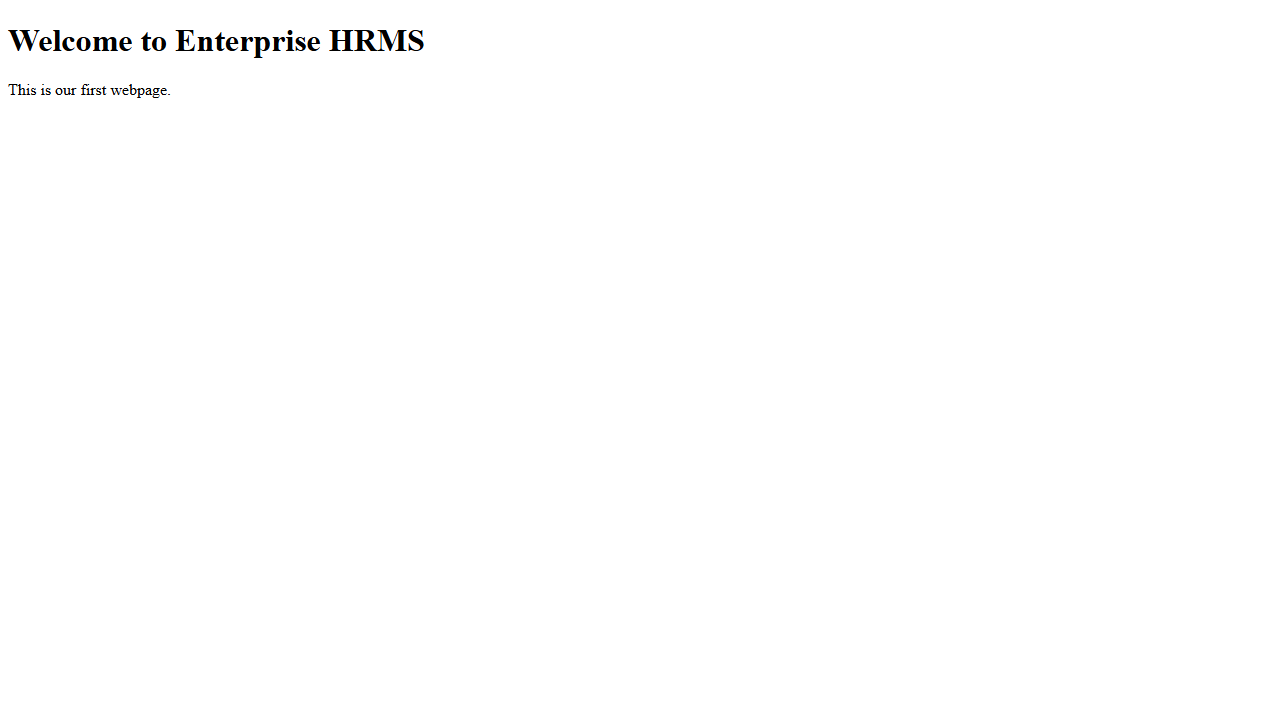
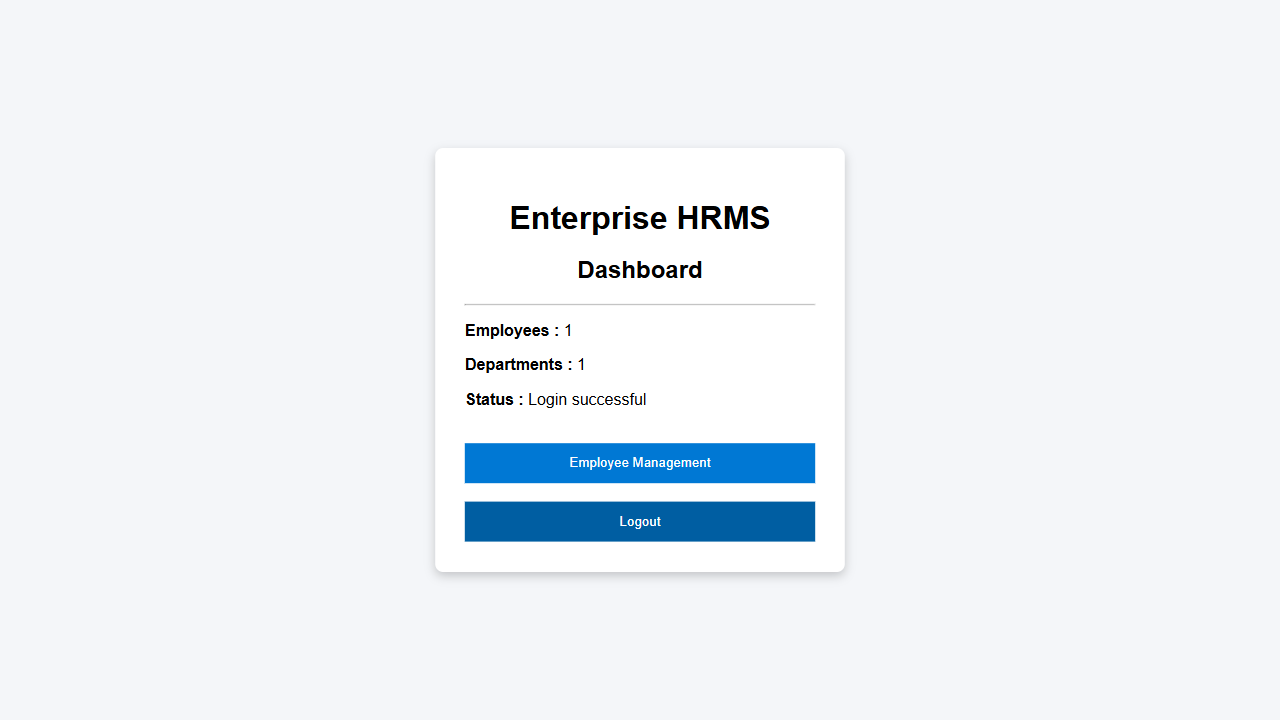
Added Assertions and verified all test cases

diff --git a/automation_framework/reports/report.html b/automation_framework/reports/report.html
@@ -328,7 +328,7 @@ div.media {
   </head>
   <body>
     <h1 id="title">report.html</h1>
-    <p>Report generated on 26-Jul-2026 at 22:02:19 by <a href="https://pypi.python.org/pypi/pytest-html">pytest-html</a>
+    <p>Report generated on 27-Jul-2026 at 10:40:19 by <a href="https://pypi.python.org/pypi/pytest-html">pytest-html</a>
         v4.2.0</p>
     <div id="environment-header">
       <h2>Environment</h2>
@@ -383,7 +383,7 @@ div.media {
         <h2>Summary</h2>
         <div class="additional-summary prefix">
         </div>
-        <p class="run-count">4 tests took 00:00:11.</p>
+        <p class="run-count">7 tests took 00:00:41.</p>
         <p class="filter">(Un)check the boxes to filter the results.</p>
         <div class="summary__reload">
           <div class="summary__reload__button hidden" onclick="location.reload()">
@@ -396,7 +396,7 @@ div.media {
             <input checked="true" class="filter" name="filter_checkbox" type="checkbox" data-test-result="failed" disabled>
             <span class="failed">0 Failed,</span>
             <input checked="true" class="filter" name="filter_checkbox" type="checkbox" data-test-result="passed" >
-            <span class="passed">4 Passed,</span>
+            <span class="passed">7 Passed,</span>
             <input checked="true" class="filter" name="filter_checkbox" type="checkbox" data-test-result="skipped" disabled>
             <span class="skipped">0 Skipped,</span>
             <input checked="true" class="filter" name="filter_checkbox" type="checkbox" data-test-result="xfailed" disabled>
@@ -431,7 +431,7 @@ div.media {
       </thead>
     </table>
   <footer>
-    <div id="data-container" data-jsonblob="{&#34;environment&#34;: {&#34;Python&#34;: &#34;3.13.14&#34;, &#34;Platform&#34;: &#34;Windows-11-10.0.26200-SP0&#34;, &#34;Packages&#34;: {&#34;pytest&#34;: &#34;9.1.1&#34;, &#34;pluggy&#34;: &#34;1.6.0&#34;}, &#34;Plugins&#34;: {&#34;html&#34;: &#34;4.2.0&#34;, &#34;metadata&#34;: &#34;3.1.1&#34;}}, &#34;tests&#34;: {&#34;tests/test_login.py::test_login[admin-admin123]&#34;: [{&#34;extras&#34;: [], &#34;result&#34;: &#34;Passed&#34;, &#34;testId&#34;: &#34;tests/test_login.py::test_login[admin-admin123]&#34;, &#34;duration&#34;: &#34;00:00:03&#34;, &#34;resultsTableRow&#34;: [&#34;&lt;td class=\&#34;col-result\&#34;&gt;Passed&lt;/td&gt;&#34;, &#34;&lt;td class=\&#34;col-testId\&#34;&gt;tests/test_login.py::test_login[admin-admin123]&lt;/td&gt;&#34;, &#34;&lt;td class=\&#34;col-duration\&#34;&gt;00:00:03&lt;/td&gt;&#34;, &#34;&lt;td class=\&#34;col-links\&#34;&gt;&lt;/td&gt;&#34;], &#34;log&#34;: &#34;----------------------------- Captured stderr call -----------------------------\n2026-07-26 22:02:11,035 | INFO | Opened HRMS application\n2026-07-26 22:02:11,086 | INFO | Entered Username\n2026-07-26 22:02:11,102 | INFO | Entered Password\n2026-07-26 22:02:11,358 | INFO | Clicked Login Button\n2026-07-26 22:02:11,358 | INFO | Login successful\n\n------------------------------ Captured log call -------------------------------\nINFO     HRMS:login_page.py:21 Opened HRMS application\nINFO     HRMS:login_page.py:27 Entered Username\nINFO     HRMS:login_page.py:32 Entered Password\nINFO     HRMS:login_page.py:38 Clicked Login Button\nINFO     HRMS:login_page.py:46 Login successful\n\n&#34;}], &#34;tests/test_login.py::test_login[admin-wrongpassword]&#34;: [{&#34;extras&#34;: [], &#34;result&#34;: &#34;Passed&#34;, &#34;testId&#34;: &#34;tests/test_login.py::test_login[admin-wrongpassword]&#34;, &#34;duration&#34;: &#34;00:00:03&#34;, &#34;resultsTableRow&#34;: [&#34;&lt;td class=\&#34;col-result\&#34;&gt;Passed&lt;/td&gt;&#34;, &#34;&lt;td class=\&#34;col-testId\&#34;&gt;tests/test_login.py::test_login[admin-wrongpassword]&lt;/td&gt;&#34;, &#34;&lt;td class=\&#34;col-duration\&#34;&gt;00:00:03&lt;/td&gt;&#34;, &#34;&lt;td class=\&#34;col-links\&#34;&gt;&lt;/td&gt;&#34;], &#34;log&#34;: &#34;----------------------------- Captured stderr call -----------------------------\n2026-07-26 22:02:13,579 | INFO | Opened HRMS application\n2026-07-26 22:02:13,637 | INFO | Entered Username\n2026-07-26 22:02:13,655 | INFO | Entered Password\n2026-07-26 22:02:13,766 | INFO | Clicked Login Button\n2026-07-26 22:02:13,767 | INFO | Login successful\n\n------------------------------ Captured log call -------------------------------\nINFO     HRMS:login_page.py:21 Opened HRMS application\nINFO     HRMS:login_page.py:27 Entered Username\nINFO     HRMS:login_page.py:32 Entered Password\nINFO     HRMS:login_page.py:38 Clicked Login Button\nINFO     HRMS:login_page.py:46 Login successful\n\n&#34;}], &#34;tests/test_login.py::test_login[wronguser-admin123]&#34;: [{&#34;extras&#34;: [], &#34;result&#34;: &#34;Passed&#34;, &#34;testId&#34;: &#34;tests/test_login.py::test_login[wronguser-admin123]&#34;, &#34;duration&#34;: &#34;00:00:03&#34;, &#34;resultsTableRow&#34;: [&#34;&lt;td class=\&#34;col-result\&#34;&gt;Passed&lt;/td&gt;&#34;, &#34;&lt;td class=\&#34;col-testId\&#34;&gt;tests/test_login.py::test_login[wronguser-admin123]&lt;/td&gt;&#34;, &#34;&lt;td class=\&#34;col-duration\&#34;&gt;00:00:03&lt;/td&gt;&#34;, &#34;&lt;td class=\&#34;col-links\&#34;&gt;&lt;/td&gt;&#34;], &#34;log&#34;: &#34;----------------------------- Captured stderr call -----------------------------\n2026-07-26 22:02:16,093 | INFO | Opened HRMS application\n2026-07-26 22:02:16,142 | INFO | Entered Username\n2026-07-26 22:02:16,161 | INFO | Entered Password\n2026-07-26 22:02:16,471 | INFO | Clicked Login Button\n2026-07-26 22:02:16,472 | INFO | Login successful\n\n------------------------------ Captured log call -------------------------------\nINFO     HRMS:login_page.py:21 Opened HRMS application\nINFO     HRMS:login_page.py:27 Entered Username\nINFO     HRMS:login_page.py:32 Entered Password\nINFO     HRMS:login_page.py:38 Clicked Login Button\nINFO     HRMS:login_page.py:46 Login successful\n\n&#34;}], &#34;tests/test_login.py::test_login[wronguser-wrongpassword]&#34;: [{&#34;extras&#34;: [], &#34;result&#34;: &#34;Passed&#34;, &#34;testId&#34;: &#34;tests/test_login.py::test_login[wronguser-wrongpassword]&#34;, &#34;duration&#34;: &#34;00:00:02&#34;, &#34;resultsTableRow&#34;: [&#34;&lt;td class=\&#34;col-result\&#34;&gt;Passed&lt;/td&gt;&#34;, &#34;&lt;td class=\&#34;col-testId\&#34;&gt;tests/test_login.py::test_login[wronguser-wrongpassword]&lt;/td&gt;&#34;, &#34;&lt;td class=\&#34;col-duration\&#34;&gt;00:00:02&lt;/td&gt;&#34;, &#34;&lt;td class=\&#34;col-links\&#34;&gt;&lt;/td&gt;&#34;], &#34;log&#34;: &#34;----------------------------- Captured stderr call -----------------------------\n2026-07-26 22:02:18,607 | INFO | Opened HRMS application\n2026-07-26 22:02:18,653 | INFO | Entered Username\n2026-07-26 22:02:18,670 | INFO | Entered Password\n2026-07-26 22:02:18,855 | INFO | Clicked Login Button\n2026-07-26 22:02:18,855 | INFO | Login successful\n\n------------------------------ Captured log call -------------------------------\nINFO     HRMS:login_page.py:21 Opened HRMS application\nINFO     HRMS:login_page.py:27 Entered Username\nINFO     HRMS:login_page.py:32 Entered Password\nINFO     HRMS:login_page.py:38 Clicked Login Button\nINFO     HRMS:login_page.py:46 Login successful\n\n&#34;}]}, &#34;renderCollapsed&#34;: [&#34;passed&#34;], &#34;initialSort&#34;: &#34;result&#34;, &#34;title&#34;: &#34;report.html&#34;}"></div>
+    <div id="data-container" data-jsonblob="{&#34;environment&#34;: {&#34;Python&#34;: &#34;3.13.14&#34;, &#34;Platform&#34;: &#34;Windows-11-10.0.26200-SP0&#34;, &#34;Packages&#34;: {&#34;pytest&#34;: &#34;9.1.1&#34;, &#34;pluggy&#34;: &#34;1.6.0&#34;}, &#34;Plugins&#34;: {&#34;html&#34;: &#34;4.2.0&#34;, &#34;metadata&#34;: &#34;3.1.1&#34;}}, &#34;tests&#34;: {&#34;tests/test_add_employee.py::test_add_employee&#34;: [{&#34;extras&#34;: [], &#34;result&#34;: &#34;Passed&#34;, &#34;testId&#34;: &#34;tests/test_add_employee.py::test_add_employee&#34;, &#34;duration&#34;: &#34;00:00:12&#34;, &#34;resultsTableRow&#34;: [&#34;&lt;td class=\&#34;col-result\&#34;&gt;Passed&lt;/td&gt;&#34;, &#34;&lt;td class=\&#34;col-testId\&#34;&gt;tests/test_add_employee.py::test_add_employee&lt;/td&gt;&#34;, &#34;&lt;td class=\&#34;col-duration\&#34;&gt;00:00:12&lt;/td&gt;&#34;, &#34;&lt;td class=\&#34;col-links\&#34;&gt;&lt;/td&gt;&#34;], &#34;log&#34;: &#34;----------------------------- Captured stderr call -----------------------------\n2026-07-27 10:39:41,406 | INFO | Opened HRMS Login page\n2026-07-27 10:39:41,476 | INFO | Entered Username\n2026-07-27 10:39:41,508 | INFO | Entered Password\n2026-07-27 10:39:41,732 | INFO | Clicked Login Button\n2026-07-27 10:39:41,732 | INFO | Login successful\n2026-07-27 10:39:41,939 | INFO | Clicked Employee Management\n2026-07-27 10:39:42,064 | INFO | Clicked Add Employee\n\n------------------------------ Captured log call -------------------------------\nINFO     HRMS:login_page.py:21 Opened HRMS Login page\nINFO     HRMS:login_page.py:27 Entered Username\nINFO     HRMS:login_page.py:32 Entered Password\nINFO     HRMS:login_page.py:38 Clicked Login Button\nINFO     HRMS:login_page.py:46 Login successful\nINFO     HRMS:dashboard_page.py:17 Clicked Employee Management\nINFO     HRMS:add_employee_page.py:28 Clicked Add Employee\n\n&#34;}], &#34;tests/test_launch_hrms.py::test_launch_hrms&#34;: [{&#34;extras&#34;: [], &#34;result&#34;: &#34;Passed&#34;, &#34;testId&#34;: &#34;tests/test_launch_hrms.py::test_launch_hrms&#34;, &#34;duration&#34;: &#34;00:00:08&#34;, &#34;resultsTableRow&#34;: [&#34;&lt;td class=\&#34;col-result\&#34;&gt;Passed&lt;/td&gt;&#34;, &#34;&lt;td class=\&#34;col-testId\&#34;&gt;tests/test_launch_hrms.py::test_launch_hrms&lt;/td&gt;&#34;, &#34;&lt;td class=\&#34;col-duration\&#34;&gt;00:00:08&lt;/td&gt;&#34;, &#34;&lt;td class=\&#34;col-links\&#34;&gt;&lt;/td&gt;&#34;], &#34;log&#34;: &#34;No log output captured.&#34;}], &#34;tests/test_login.py::test_login[admin-admin123]&#34;: [{&#34;extras&#34;: [], &#34;result&#34;: &#34;Passed&#34;, &#34;testId&#34;: &#34;tests/test_login.py::test_login[admin-admin123]&#34;, &#34;duration&#34;: &#34;00:00:04&#34;, &#34;resultsTableRow&#34;: [&#34;&lt;td class=\&#34;col-result\&#34;&gt;Passed&lt;/td&gt;&#34;, &#34;&lt;td class=\&#34;col-testId\&#34;&gt;tests/test_login.py::test_login[admin-admin123]&lt;/td&gt;&#34;, &#34;&lt;td class=\&#34;col-duration\&#34;&gt;00:00:04&lt;/td&gt;&#34;, &#34;&lt;td class=\&#34;col-links\&#34;&gt;&lt;/td&gt;&#34;], &#34;log&#34;: &#34;----------------------------- Captured stderr call -----------------------------\n2026-07-27 10:40:01,905 | INFO | Opened HRMS Login page\n2026-07-27 10:40:01,971 | INFO | Entered Username\n2026-07-27 10:40:02,005 | INFO | Entered Password\n2026-07-27 10:40:02,216 | INFO | Clicked Login Button\n2026-07-27 10:40:02,216 | INFO | Login successful\n\n------------------------------ Captured log call -------------------------------\nINFO     HRMS:login_page.py:21 Opened HRMS Login page\nINFO     HRMS:login_page.py:27 Entered Username\nINFO     HRMS:login_page.py:32 Entered Password\nINFO     HRMS:login_page.py:38 Clicked Login Button\nINFO     HRMS:login_page.py:46 Login successful\n\n&#34;}], &#34;tests/test_login.py::test_login[admin-wrongpassword]&#34;: [{&#34;extras&#34;: [], &#34;result&#34;: &#34;Passed&#34;, &#34;testId&#34;: &#34;tests/test_login.py::test_login[admin-wrongpassword]&#34;, &#34;duration&#34;: &#34;00:00:03&#34;, &#34;resultsTableRow&#34;: [&#34;&lt;td class=\&#34;col-result\&#34;&gt;Passed&lt;/td&gt;&#34;, &#34;&lt;td class=\&#34;col-testId\&#34;&gt;tests/test_login.py::test_login[admin-wrongpassword]&lt;/td&gt;&#34;, &#34;&lt;td class=\&#34;col-duration\&#34;&gt;00:00:03&lt;/td&gt;&#34;, &#34;&lt;td class=\&#34;col-links\&#34;&gt;&lt;/td&gt;&#34;], &#34;log&#34;: &#34;----------------------------- Captured stderr call -----------------------------\n2026-07-27 10:40:05,465 | INFO | Opened HRMS Login page\n2026-07-27 10:40:05,525 | INFO | Entered Username\n2026-07-27 10:40:05,548 | INFO | Entered Password\n2026-07-27 10:40:05,679 | INFO | Clicked Login Button\n2026-07-27 10:40:05,680 | INFO | Login successful\n\n------------------------------ Captured log call -------------------------------\nINFO     HRMS:login_page.py:21 Opened HRMS Login page\nINFO     HRMS:login_page.py:27 Entered Username\nINFO     HRMS:login_page.py:32 Entered Password\nINFO     HRMS:login_page.py:38 Clicked Login Button\nINFO     HRMS:login_page.py:46 Login successful\n\n&#34;}], &#34;tests/test_login.py::test_login[wronguser-admin123]&#34;: [{&#34;extras&#34;: [], &#34;result&#34;: &#34;Passed&#34;, &#34;testId&#34;: &#34;tests/test_login.py::test_login[wronguser-admin123]&#34;, &#34;duration&#34;: &#34;00:00:03&#34;, &#34;resultsTableRow&#34;: [&#34;&lt;td class=\&#34;col-result\&#34;&gt;Passed&lt;/td&gt;&#34;, &#34;&lt;td class=\&#34;col-testId\&#34;&gt;tests/test_login.py::test_login[wronguser-admin123]&lt;/td&gt;&#34;, &#34;&lt;td class=\&#34;col-duration\&#34;&gt;00:00:03&lt;/td&gt;&#34;, &#34;&lt;td class=\&#34;col-links\&#34;&gt;&lt;/td&gt;&#34;], &#34;log&#34;: &#34;----------------------------- Captured stderr call -----------------------------\n2026-07-27 10:40:08,936 | INFO | Opened HRMS Login page\n2026-07-27 10:40:09,015 | INFO | Entered Username\n2026-07-27 10:40:09,039 | INFO | Entered Password\n2026-07-27 10:40:09,223 | INFO | Clicked Login Button\n2026-07-27 10:40:09,224 | INFO | Login successful\n\n------------------------------ Captured log call -------------------------------\nINFO     HRMS:login_page.py:21 Opened HRMS Login page\nINFO     HRMS:login_page.py:27 Entered Username\nINFO     HRMS:login_page.py:32 Entered Password\nINFO     HRMS:login_page.py:38 Clicked Login Button\nINFO     HRMS:login_page.py:46 Login successful\n\n&#34;}], &#34;tests/test_login.py::test_login[wronguser-wrongpassword]&#34;: [{&#34;extras&#34;: [], &#34;result&#34;: &#34;Passed&#34;, &#34;testId&#34;: &#34;tests/test_login.py::test_login[wronguser-wrongpassword]&#34;, &#34;duration&#34;: &#34;00:00:03&#34;, &#34;resultsTableRow&#34;: [&#34;&lt;td class=\&#34;col-result\&#34;&gt;Passed&lt;/td&gt;&#34;, &#34;&lt;td class=\&#34;col-testId\&#34;&gt;tests/test_login.py::test_login[wronguser-wrongpassword]&lt;/td&gt;&#34;, &#34;&lt;td class=\&#34;col-duration\&#34;&gt;00:00:03&lt;/td&gt;&#34;, &#34;&lt;td class=\&#34;col-links\&#34;&gt;&lt;/td&gt;&#34;], &#34;log&#34;: &#34;----------------------------- Captured stderr call -----------------------------\n2026-07-27 10:40:11,985 | INFO | Opened HRMS Login page\n2026-07-27 10:40:12,067 | INFO | Entered Username\n2026-07-27 10:40:12,101 | INFO | Entered Password\n2026-07-27 10:40:12,540 | INFO | Clicked Login Button\n2026-07-27 10:40:12,541 | INFO | Login successful\n\n------------------------------ Captured log call -------------------------------\nINFO     HRMS:login_page.py:21 Opened HRMS Login page\nINFO     HRMS:login_page.py:27 Entered Username\nINFO     HRMS:login_page.py:32 Entered Password\nINFO     HRMS:login_page.py:38 Clicked Login Button\nINFO     HRMS:login_page.py:46 Login successful\n\n&#34;}], &#34;tests/test_search_employee.py::test_search_employee&#34;: [{&#34;extras&#34;: [], &#34;result&#34;: &#34;Passed&#34;, &#34;testId&#34;: &#34;tests/test_search_employee.py::test_search_employee&#34;, &#34;duration&#34;: &#34;00:00:06&#34;, &#34;resultsTableRow&#34;: [&#34;&lt;td class=\&#34;col-result\&#34;&gt;Passed&lt;/td&gt;&#34;, &#34;&lt;td class=\&#34;col-testId\&#34;&gt;tests/test_search_employee.py::test_search_employee&lt;/td&gt;&#34;, &#34;&lt;td class=\&#34;col-duration\&#34;&gt;00:00:06&lt;/td&gt;&#34;, &#34;&lt;td class=\&#34;col-links\&#34;&gt;&lt;/td&gt;&#34;], &#34;log&#34;: &#34;----------------------------- Captured stderr call -----------------------------\n2026-07-27 10:40:15,258 | INFO | Opened HRMS Login page\n2026-07-27 10:40:15,318 | INFO | Entered Username\n2026-07-27 10:40:15,345 | INFO | Entered Password\n2026-07-27 10:40:15,550 | INFO | Clicked Login Button\n2026-07-27 10:40:15,551 | INFO | Login successful\n2026-07-27 10:40:15,775 | INFO | Clicked Employee Management\n2026-07-27 10:40:15,961 | INFO | Searching Employee EMP001\n\n------------------------------ Captured log call -------------------------------\nINFO     HRMS:login_page.py:21 Opened HRMS Login page\nINFO     HRMS:login_page.py:27 Entered Username\nINFO     HRMS:login_page.py:32 Entered Password\nINFO     HRMS:login_page.py:38 Clicked Login Button\nINFO     HRMS:login_page.py:46 Login successful\nINFO     HRMS:dashboard_page.py:17 Clicked Employee Management\nINFO     HRMS:employee_page.py:22 Searching Employee EMP001\n\n&#34;}]}, &#34;renderCollapsed&#34;: [&#34;passed&#34;], &#34;initialSort&#34;: &#34;result&#34;, &#34;title&#34;: &#34;report.html&#34;}"></div>
     <script>
       (function(){function r(e,n,t){function o(i,f){if(!n[i]){if(!e[i]){var c="function"==typeof require&&require;if(!f&&c)return c(i,!0);if(u)return u(i,!0);var a=new Error("Cannot find module '"+i+"'");throw a.code="MODULE_NOT_FOUND",a}var p=n[i]={exports:{}};e[i][0].call(p.exports,function(r){var n=e[i][1][r];return o(n||r)},p,p.exports,r,e,n,t)}return n[i].exports}for(var u="function"==typeof require&&require,i=0;i<t.length;i++)o(t[i]);return o}return r})()({1:[function(require,module,exports){
 const { getCollapsedCategory, setCollapsedIds } = require('./storage.js')

diff --git a/automation_framework/tests/test_login.py b/automation_framework/tests/test_login.py
@@ -15,3 +15,16 @@ def test_login(page, username, password):
     login.open_application()
 
     login.login(username, password)
+
+
+
+    if username == "admin" and password == "admin123":
+        page.wait_for_url("**/dashboard")
+        assert "dashboard" in page.url.lower()
+
+    else:
+        assert "login" in page.url.lower()
+        error_message = page.locator("text=Invalid username or password.")
+        error_message.wait_for(state="visible")
+        assert error_message.is_visible()
+        # assert page.locator("text=Invalid username or password.").is_visible()

diff --git a/hrms_app/app.py b/hrms_app/app.py
@@ -34,7 +34,7 @@ def login():
         connection.close()
 
         if user:
-            return render_template("dashboard.html")
+            return redirect("/dashboard")
         else:
             return render_template(
                 "login.html",
@@ -206,7 +206,7 @@ def edit_employee(employee_id):
 @app.route("/delete_employee/<employee_id>")
 def delete_employee(employee_id):
 
-    
+
     connection = sqlite3.connect("../database/hrms.db")
     cursor = connection.cursor()
 

diff --git a/automation_framework/pages/login_page.py b/automation_framework/pages/login_page.py
@@ -16,9 +16,9 @@ class LoginPage:
         self.login_button = "#login-btn"
 
     def open_application(self):
-        self.page.goto(Config.BASE_URL)
+        self.page.goto(Config.BASE_URL + "/login")
 
-        logger.info("Opened HRMS application")
+        logger.info("Opened HRMS Login page")
 
 
     def enter_username(self, username):

diff --git a/automation_framework/config/config.py b/automation_framework/config/config.py
@@ -1,6 +1,6 @@
 class Config:
 
-    BASE_URL = "http://127.0.0.1:5000/login"
+    BASE_URL = "http://127.0.0.1:5000"
 
     USERNAME = "admin"
 
